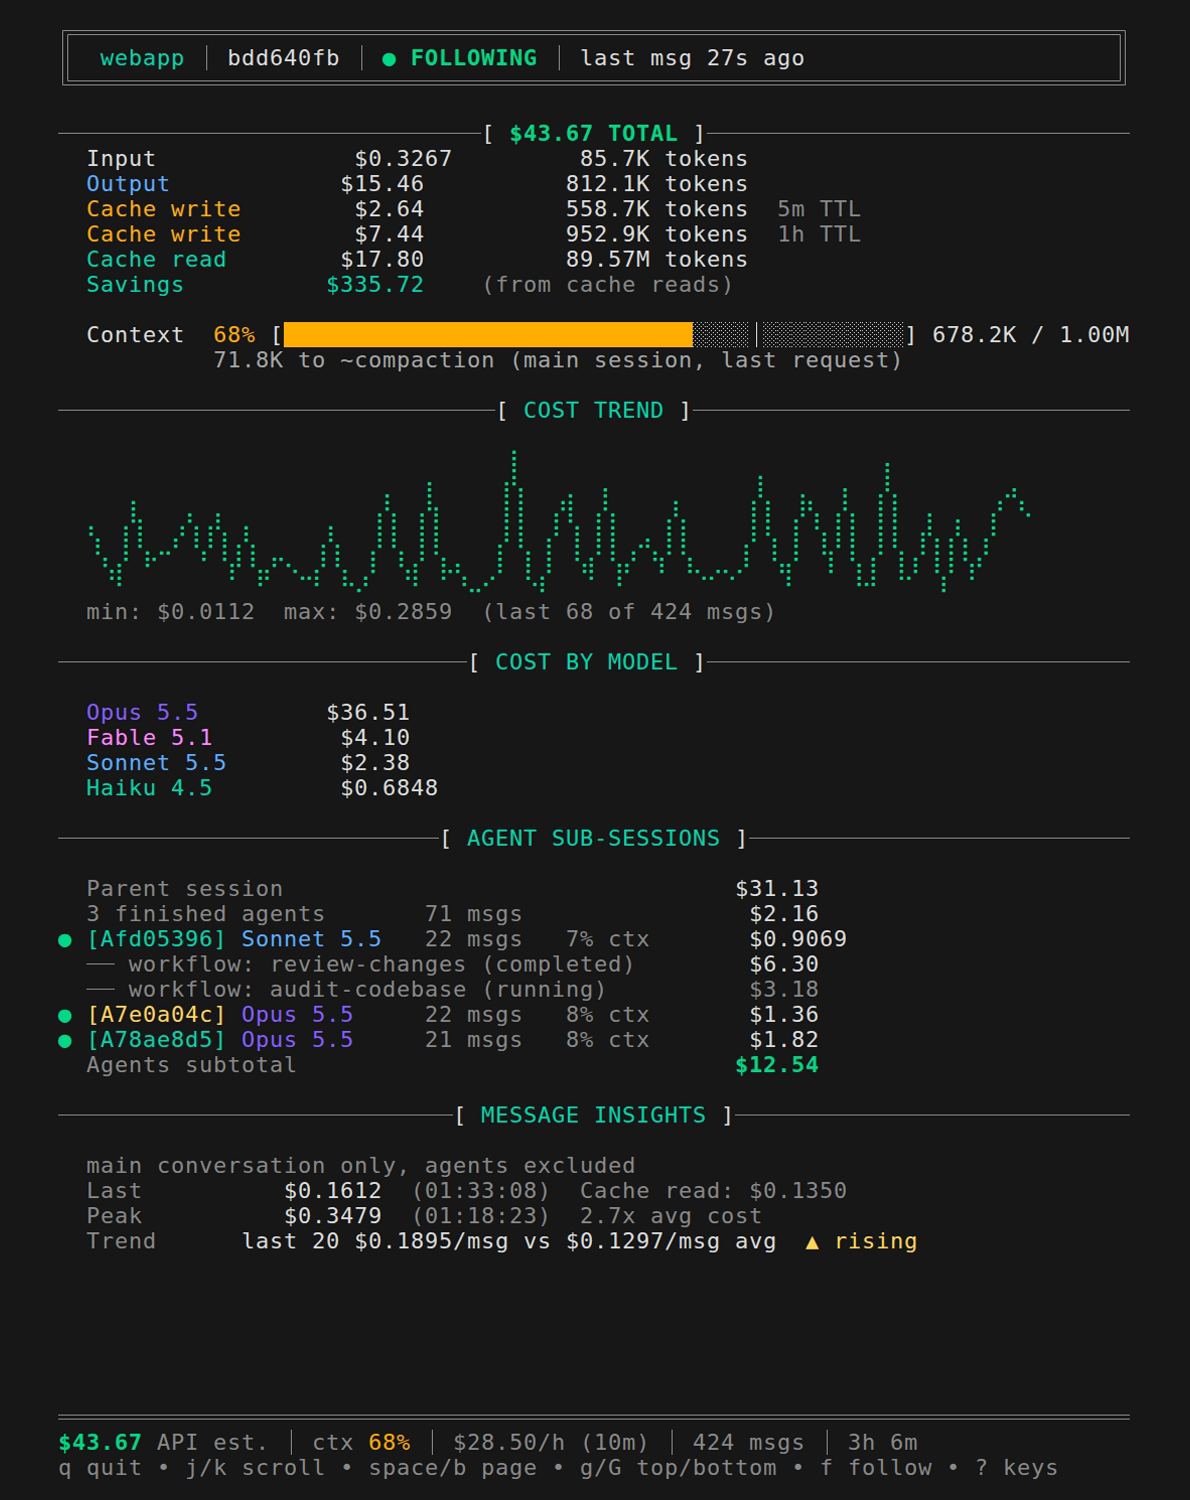
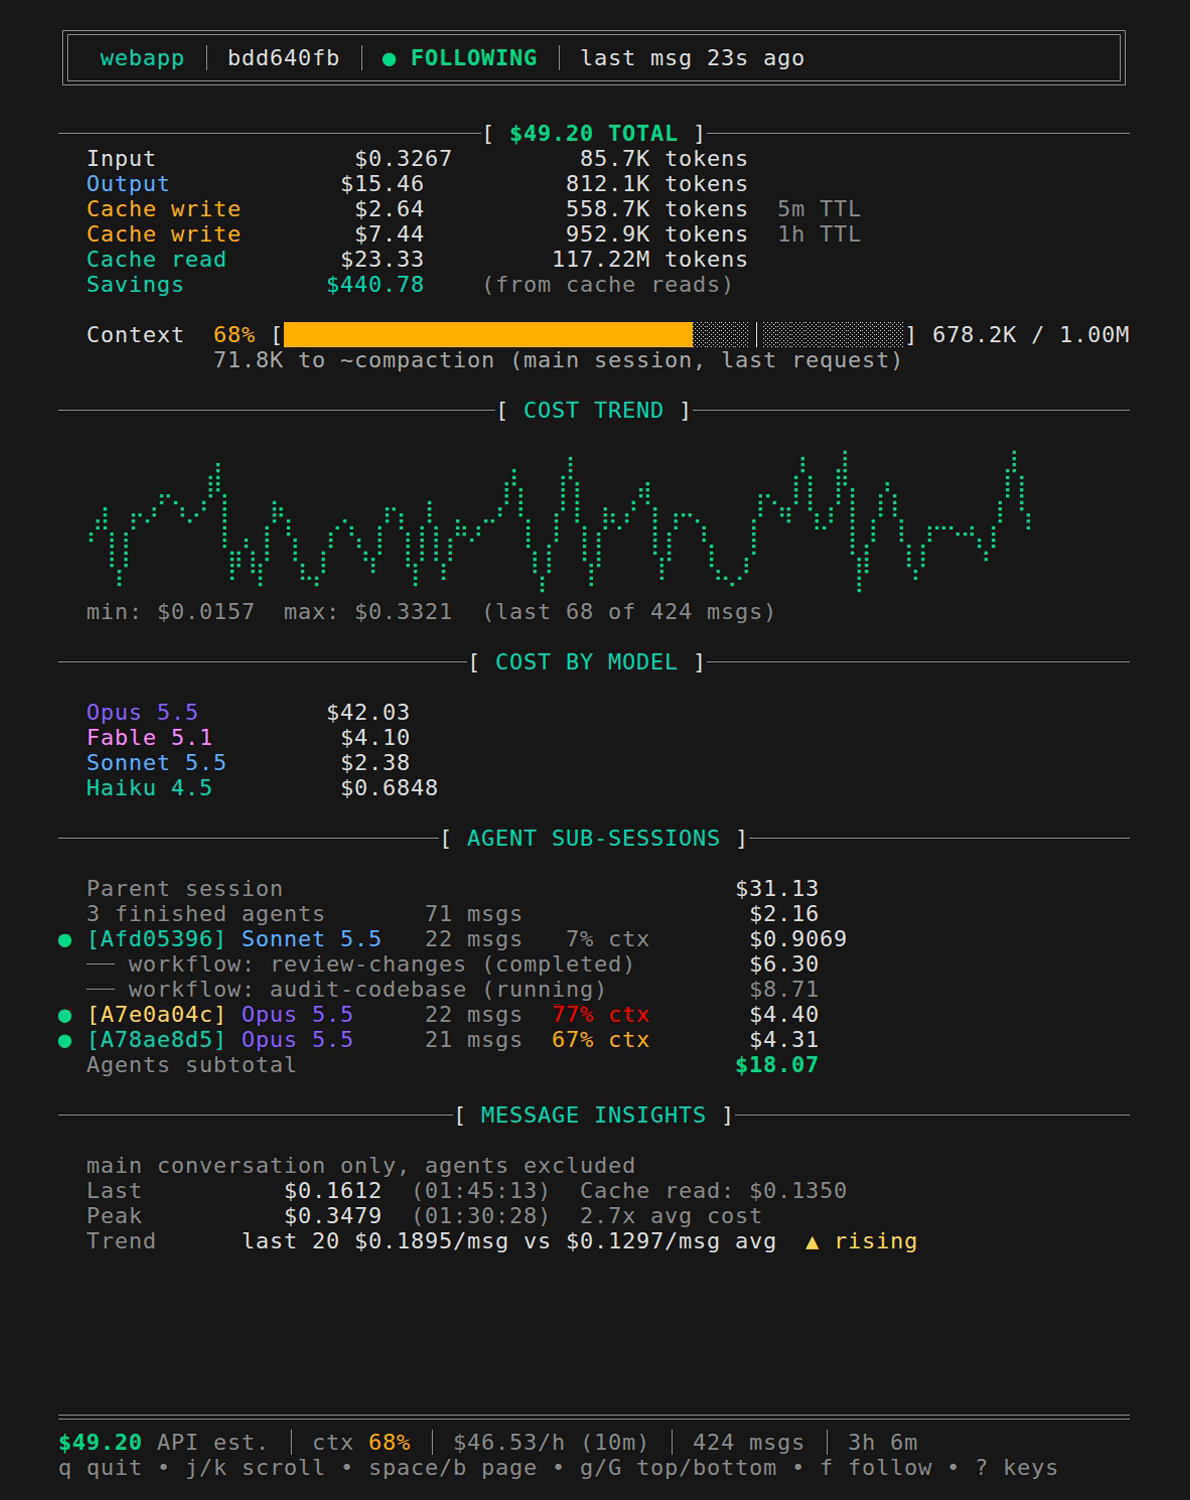
docs: improve the screenshot fixture data (#321)
The running workflow's agents start deeper into their context windows,
and the screenshots and the README's statusline example are regenerated
from the new fixture.

diff --git a/docs/screenshots/mkfixture.py b/docs/screenshots/mkfixture.py
@@ -65,10 +65,11 @@ def user(dt, sid, cwd):
             "message": {"role": "user", "content": "synthetic prompt"}}
 
 
-def convo(end, n, models, sid, cwd, ctx_cap=190_000, growth=6000):
-    """n assistant messages (plus the user turns between them), the last at end."""
+def convo(end, n, models, sid, cwd, ctx_cap=190_000, growth=6000, start=8000):
+    """n assistant messages (plus the user turns between them), the last at end,
+    with the context growing from start."""
     gaps = [rng.randint(5, 90) for _ in range(n)]
-    dt, ctx, lines = end - timedelta(seconds=sum(gaps)), 8000, []
+    dt, ctx, lines = end - timedelta(seconds=sum(gaps)), start, []
     for i in range(n):
         dt += timedelta(seconds=gaps[i])
         if i % 4 == 0:
@@ -119,15 +120,18 @@ for end, n, model in [(ago(hours=2, minutes=20), 25, "claude-sonnet-5-5"), (ago(
     write_jsonl(os.path.join(wp, big, "subagents", "agent-a%016x.jsonl" % rng.getrandbits(64)),
                 convo(end, n, [model], big, wd))
 
-# One finished workflow run and one still running.
-runs = [("wf_7f3a9c", "review-changes", "completed", [ago(hours=1, minutes=30), ago(hours=1, minutes=25), ago(hours=1, minutes=18)]),
-        ("wf_91bd02", "audit-codebase", "running", [ago(seconds=25), ago(minutes=1, seconds=10)])]
-for run, name, status, ends in runs:
+# One finished workflow run and one still running. The running run's agents
+# start deep into their 1M windows, one ending short of the compaction mark and
+# one past it, so watch's context column shows both warning colors beside the
+# plain agent's dim reading.
+runs = [("wf_7f3a9c", "review-changes", "completed", [(ago(hours=1, minutes=30), 8000), (ago(hours=1, minutes=25), 8000), (ago(hours=1, minutes=18), 8000)]),
+        ("wf_91bd02", "audit-codebase", "running", [(ago(seconds=25), 600_000), (ago(minutes=1, seconds=10), 700_000)])]
+for run, name, status, agents in runs:
     rd = os.path.join(wp, big, "subagents", "workflows", run)
-    for end in ends:
+    for end, start in agents:
         aid = "a%016x" % rng.getrandbits(64)
         write_jsonl(os.path.join(rd, "agent-%s.jsonl" % aid),
-                    convo(end, rng.randint(8, 22), [rng.choice(["claude-fable-5-1", "claude-opus-5-5"])], big, wd))
+                    convo(end, rng.randint(8, 22), [rng.choice(["claude-fable-5-1", "claude-opus-5-5"])], big, wd, ctx_cap=1_000_000, start=start))
         with open(os.path.join(rd, "agent-%s.meta.json" % aid), "w") as fh:
             json.dump({"agentType": "general-purpose", "spawnDepth": 1}, fh)
     os.makedirs(os.path.join(wp, big, "workflows"), exist_ok=True)

diff --git a/README.md b/README.md
@@ -288,7 +288,7 @@ Claude Code passes `session_id` and `transcript_path` to hooks and to the status
 `ficha statusline` prints a line for Claude Code's status line: the model, how full the context window is, what recent messages cost, and the session's total with the agents' share:
 
 ```text
-Opus 5.5 · ctx 68% · $0.19/msg ▲ · $43.67 (agents $12.54)
+Opus 5.5 · ctx 68% · $0.19/msg ▲ · $49.20 (agents $18.07)
 ```
 
 `$0.19/msg` is the average cost of recent messages in the main conversation. `▲` or `▼` means that's more than 20% above or below the session's average. The line leaves out the context before the first reply, the recent cost before the sixth message, and the agents' share when no agents ran.
